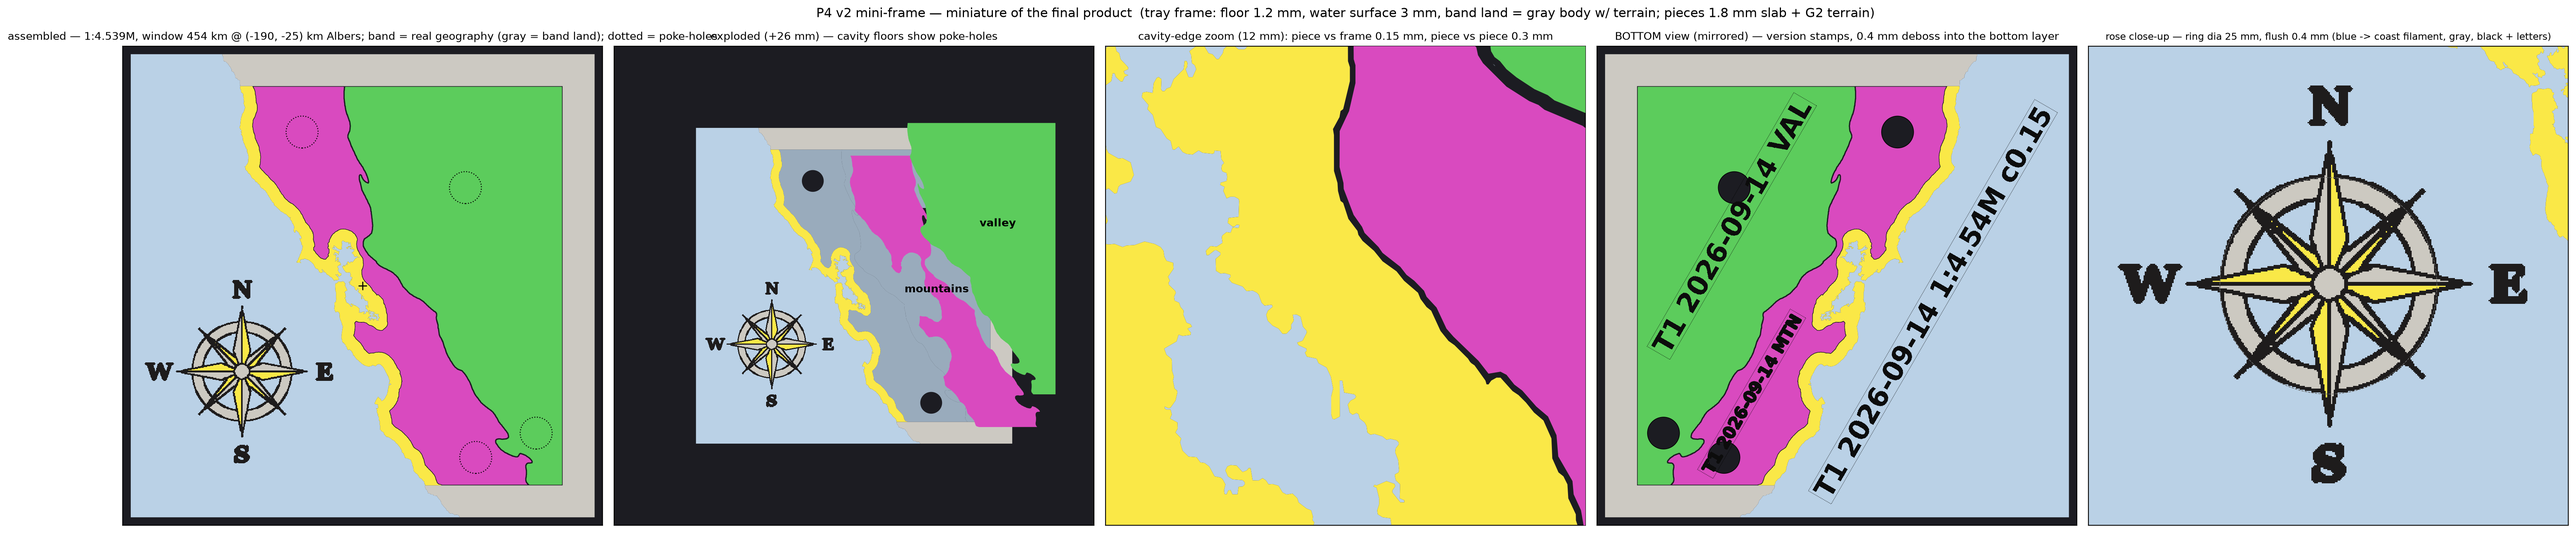
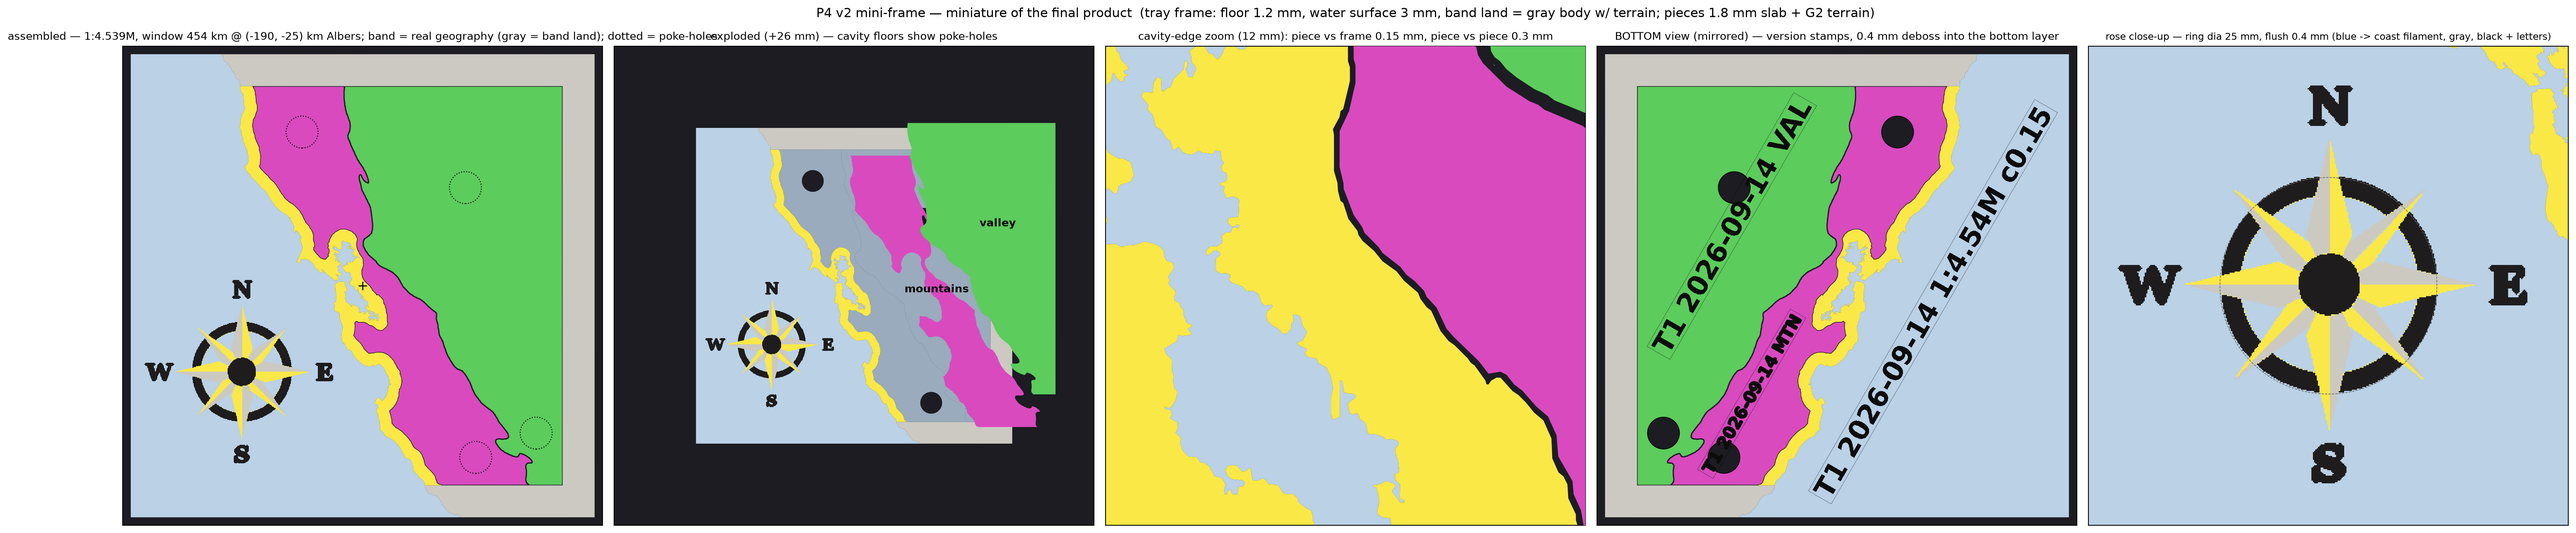
Version stamps: Benchy-style — flush first-layer letters in recessed panel (was deboss); rebuild via make
Claude-Session: https://claude.ai/code/session_01UmyBij4BnZ6xjWXXCv2QxT

Changed region(s): [[0.841, 0.3107, 0.9656, 0.7767], [0.0623, 0.5903, 0.1246, 0.8078], [0.2803, 0.5903, 0.3115, 0.7146]]

diff --git a/pipeline/compass_art.py b/pipeline/compass_art.py
@@ -9,13 +9,30 @@ every pixel is classified to its NEAREST reference color:
     black     (35, 31, 32)   -> "black"  (black body)
     teal      (39, 170, 225) + white/transparent -> water (no body)
 
+Before anything else touches them, the three raw ink classes are each
+dilated (priority black > coast > gray; a class never grows into a
+higher-priority class's already-claimed cells, so they stay disjoint BY
+CONSTRUCTION) until their printed min stroke width -- measured by the
+same morphological-opening test used for the letters -- clears
+[compass].ink_min_stroke_mm.  Growth is SURGICAL (only where the
+opening test still finds ink too thin), to avoid needlessly eating into
+a neighboring class along a whole shared edge.  Black, at top priority,
+always reaches the floor (hard assert: it starts sub-nozzle at small
+diameters).  coast/gray can be boxed in by black on every side at a
+sharp taper -- a real geometric limit of the artwork at small scale,
+not a bug -- so they're best-effort and reported, not asserted.
+
 N/E/S/W lettering is drawn by the pipeline (config [compass].letter_*)
 in black, merged into the black class (letters win over fills where a
-cardinal tip passes under a letter).  The three ink masks are made
-mutually DISJOINT and diagonal-pinch-free, then extruded as bodies that
-sit ON the water surface: datum -> datum + relief_mm.  Blue/gray rose
-bodies merge into the frame's existing coast/gray filament bodies; the
-black one is its own body.
+cardinal tip passes under a letter).  The rasterized letter glyph ink
+(post its own min-stroke dilation) is asserted to clear the cardinal
+tips (~1.30x the ring radius, plus whatever ink_min_stroke_mm dilation
+added) with a positive radial gap -- config [compass].letter_radius_frac
+is the knob if it doesn't.  The three ink masks are made mutually
+DISJOINT and diagonal-pinch-free, then extruded as bodies that sit ON
+the water surface: datum -> datum + relief_mm.  Blue/gray rose bodies
+merge into the frame's existing coast/gray filament bodies; the black
+one is its own body.
 
 Scale: the OUTER RING (largest circle in the SVG, outer stroke edge) =
 [compass].diameter_mm; the cardinal tips and the letters extend beyond

diff --git a/pipeline/version_stamp.py b/pipeline/version_stamp.py
@@ -52,7 +52,11 @@ from shapely.prepared import prep
 import mesh_common
 
 # ------------------------------------------------------------------ params
-DEPTH_MM = 0.4        # deboss depth (2 layers at 0.2 mm)
+DEPTH_MM = 0.4        # panel/deboss depth (2 layers at 0.2 mm)
+PANEL_STYLE = "benchy"  # "benchy": flush letters in a recessed panel
+                        # (3DBenchy-style positive first-layer text);
+                        # "deboss": letters carved into the bottom
+PANEL_RING_MM = 0.6   # flush border ring around the benchy panel
 PITCH_MM = 0.10       # glyph grid resolution (mm/cell)
 MIN_STROKE_MM = 0.8   # every glyph stroke at least this wide (2 nozzles)
 CAP_MM = 5.0          # target capital height
@@ -293,6 +297,20 @@ def make_stamp(text, allowed, anchor=None, cap_mm=CAP_MM,
             m, _ = mesh_common.remove_diagonal_pinches(m)
             m[0, :] = m[-1, :] = False           # keep the border ring
             m[:, 0] = m[:, -1] = False           # strictly at z_bottom
+            if PANEL_STYLE == "benchy":
+                # 3DBenchy-style (ahl 2026-09-14): letters stay FLUSH at
+                # the plate and the PANEL around them recesses — the
+                # recessed mask becomes the rect interior minus glyphs,
+                # inside a flush border ring that stitches the patch to
+                # the surrounding bottom at one level. Letters print as
+                # positive first-layer lines instead of glyph voids.
+                ring = max(1, int(round(PANEL_RING_MM / pitch)))
+                panel = np.zeros_like(m)
+                panel[ring:-ring, ring:-ring] = True
+                m = panel & ~m
+                m, _ = mesh_common.remove_diagonal_pinches(m)
+                m[0, :] = m[-1, :] = False
+                m[:, 0] = m[:, -1] = False
             ny, nx = m.shape
             hit = _place(nx * pitch, ny * pitch, allowed, anchor,
                          grid_step)

diff --git a/pipeline/p4_bay_coupon.py b/pipeline/p4_bay_coupon.py
@@ -1055,15 +1055,13 @@ def main():
             panel = vstamp.rect_poly(rose_c[0], rose_c[1], w, h, 0.0)
             assert panel.within(upper_water), \
                 "flush rose panel overlaps a cavity"
-        stroke_flag = (" -- UNDER 0.42 mm nozzle width, FLAG"
-                       if rose.black_stroke_mm < 0.42 else "")
         print(f"\ncompass rose (D17, {ROSE_STYLE} {ROSE_DEPTH:g} mm): "
               f"ring dia {COMPASS['coupon_diameter_mm']:g} mm at "
               f"{rose_c}, tips to r {rose.tip_r_mm:.1f} mm, box "
               f"{w:.1f} x {h:.1f} mm\n"
-              f"  black artwork strokes {rose.black_stroke_mm:.2f} mm"
-              f"{stroke_flag}; letter min stroke "
-              f"{rose.letter_min_stroke_mm:.2f} mm\n"
+              f"  black declared SVG stroke {rose.black_stroke_mm:.2f} mm "
+              "(0 = no <stroke>, ink drawn as filled shapes); letter min "
+              f"stroke {rose.letter_min_stroke_mm:.2f} mm\n"
               f"  ink min stroke (target {COMPASS['ink_min_stroke_mm']:g} "
               "mm): " + ", ".join(
                   f"{n} {rose.ink_stroke_before_mm[n]:.2f}->"

diff --git a/pipeline/p5_final.py b/pipeline/p5_final.py
@@ -259,15 +259,13 @@ def main():
             assert panel.within(upper_water), \
                 "flush rose panel overlaps a cavity"
         cells = {n: int(m.sum()) for n, m in rose.masks.items()}
-        stroke_flag = (" -- UNDER 0.42 mm nozzle width, FLAG"
-                       if rose.black_stroke_mm < 0.42 else "")
         print(f"\ncompass rose (D17, {p4.ROSE_STYLE} "
               f"{p4.ROSE_DEPTH:g} mm): ring dia "
               f"{COMPASS['diameter_mm']:g} mm at {rose_c}, "
               f"tips to r {rose.tip_r_mm:.1f} mm, box {w:.1f} x {h:.1f} "
               f"mm; ink cells {cells}\n"
-              f"  black artwork strokes {rose.black_stroke_mm:.2f} mm"
-              f"{stroke_flag}; letters cap "
+              f"  black declared SVG stroke {rose.black_stroke_mm:.2f} mm "
+              "(0 = no <stroke>, ink drawn as filled shapes); letters cap "
               f"{COMPASS['letter_cap_mm']:g} mm at r {rose.letter_r_mm:g}"
               f" mm, min stroke {rose.letter_min_stroke_mm:.2f} mm, "
               f"font {Path(rose.font_file).name}\n"
